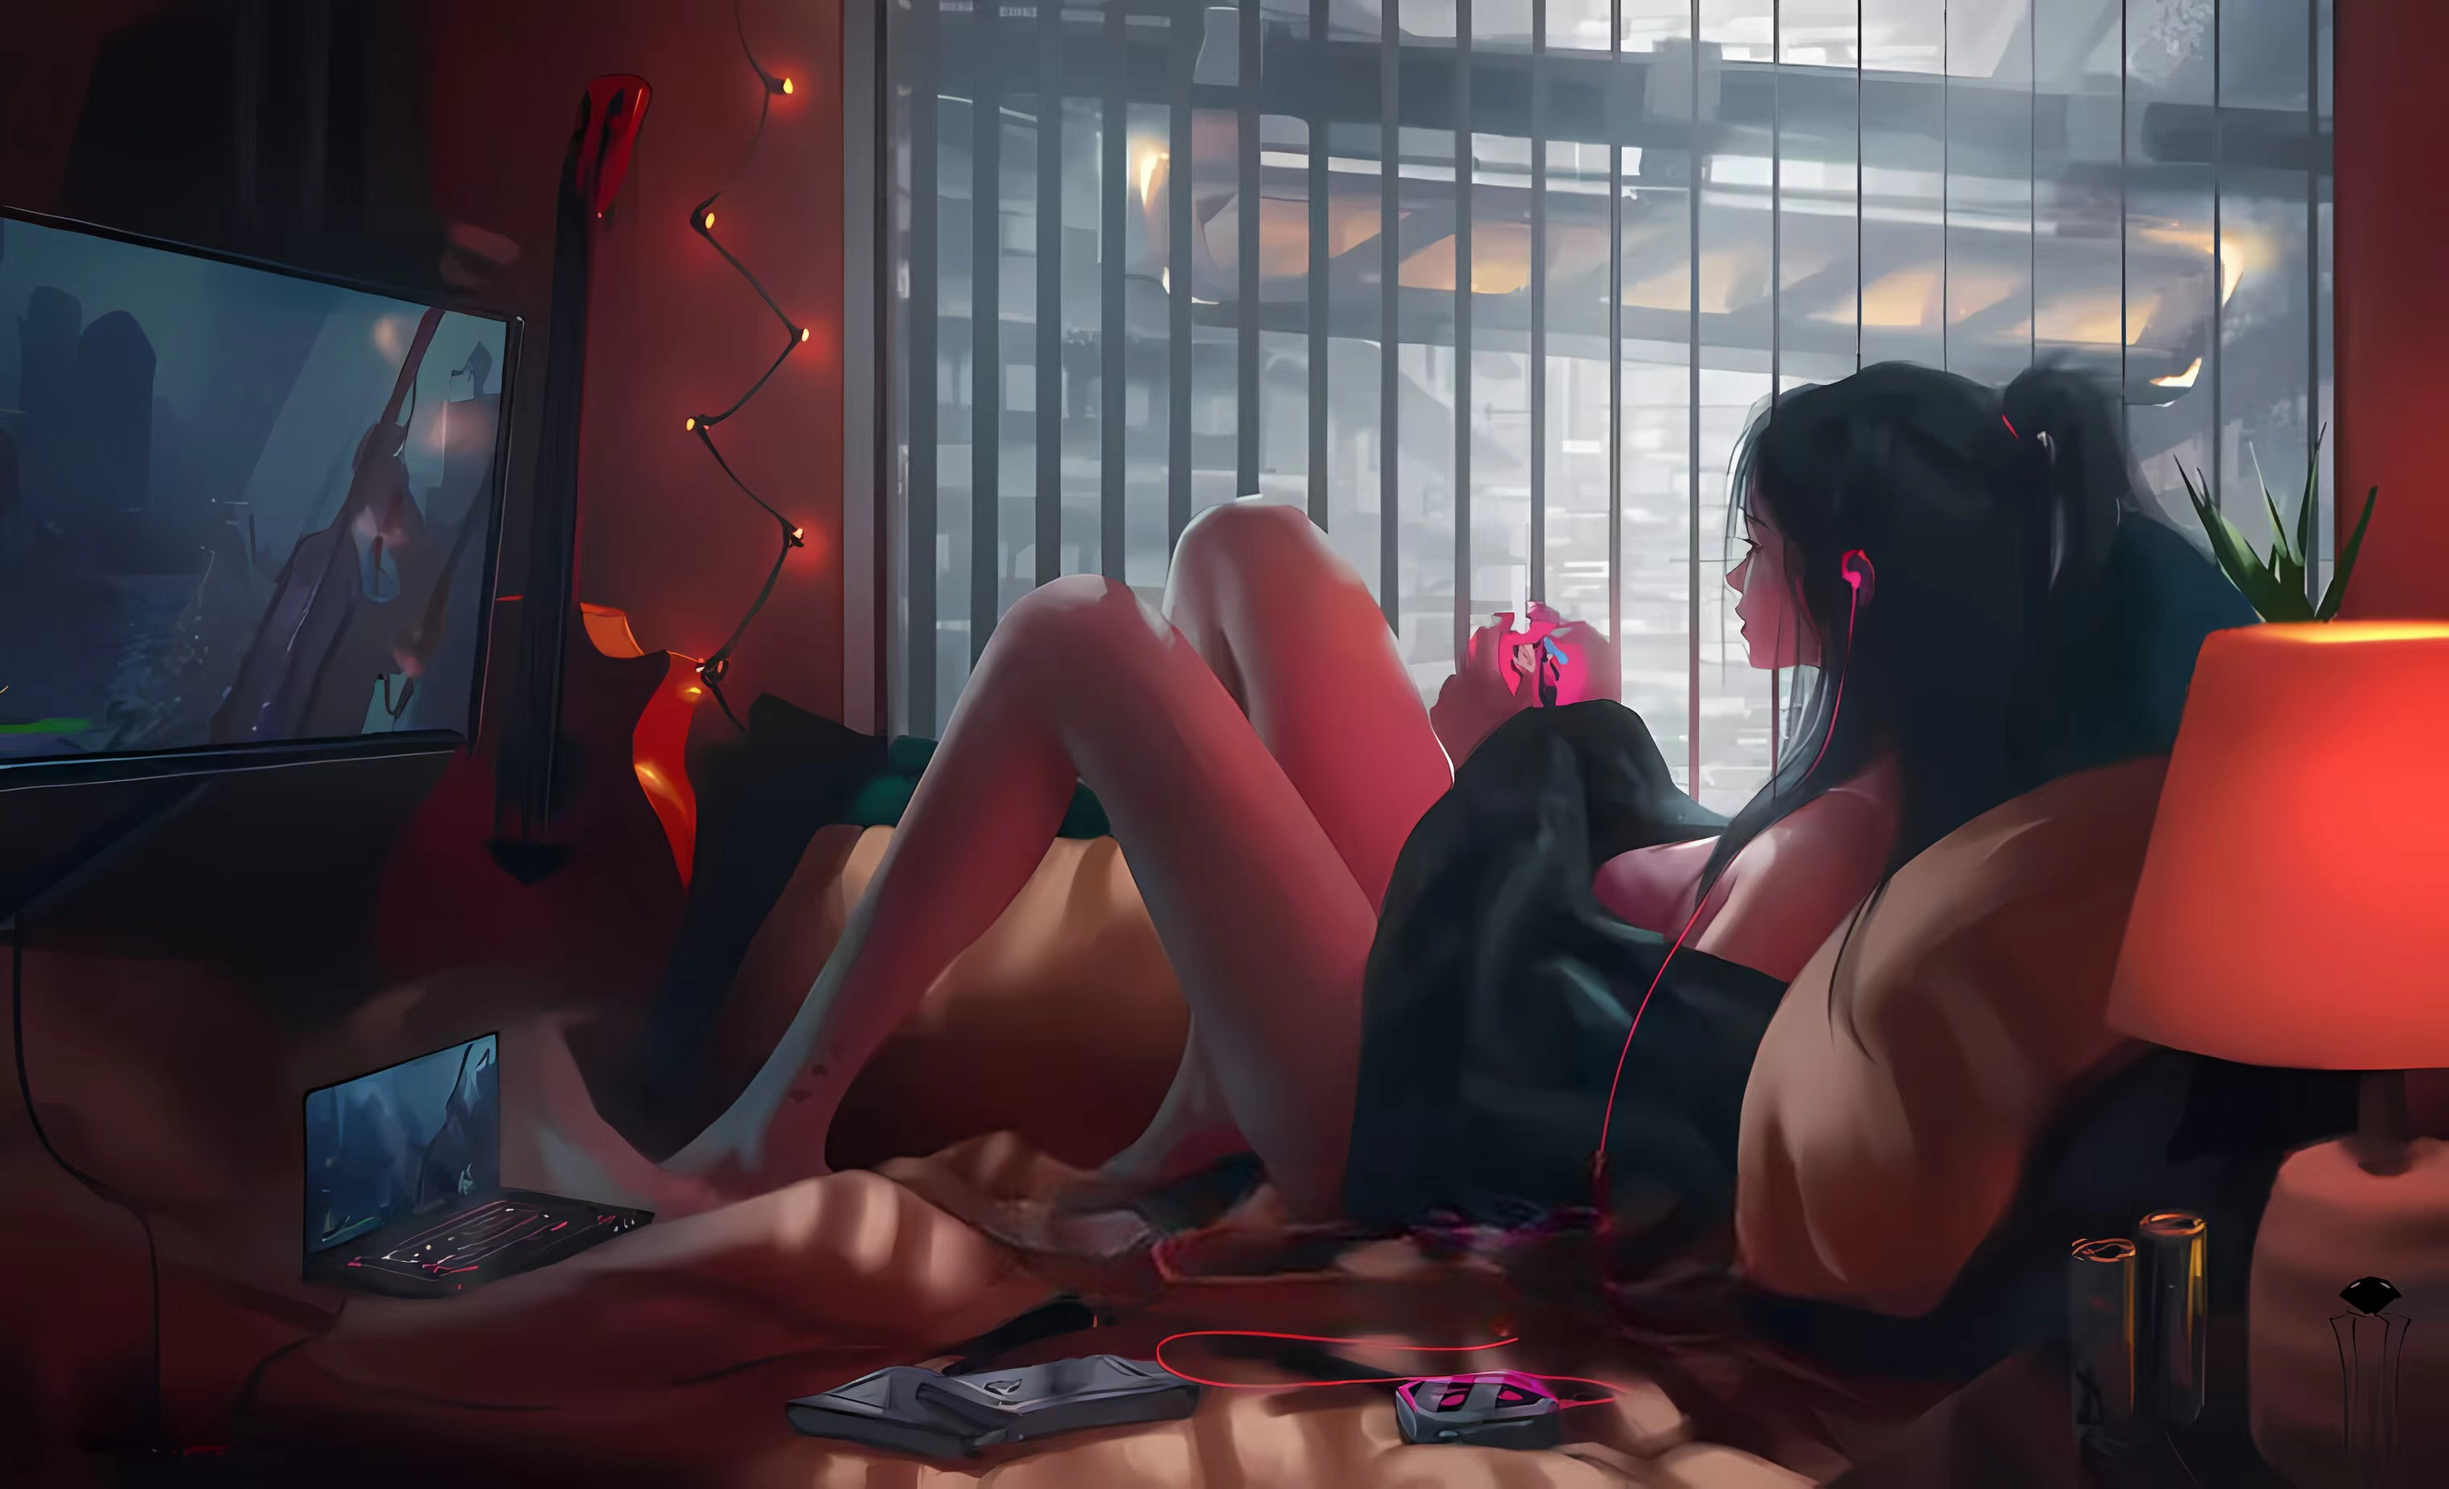
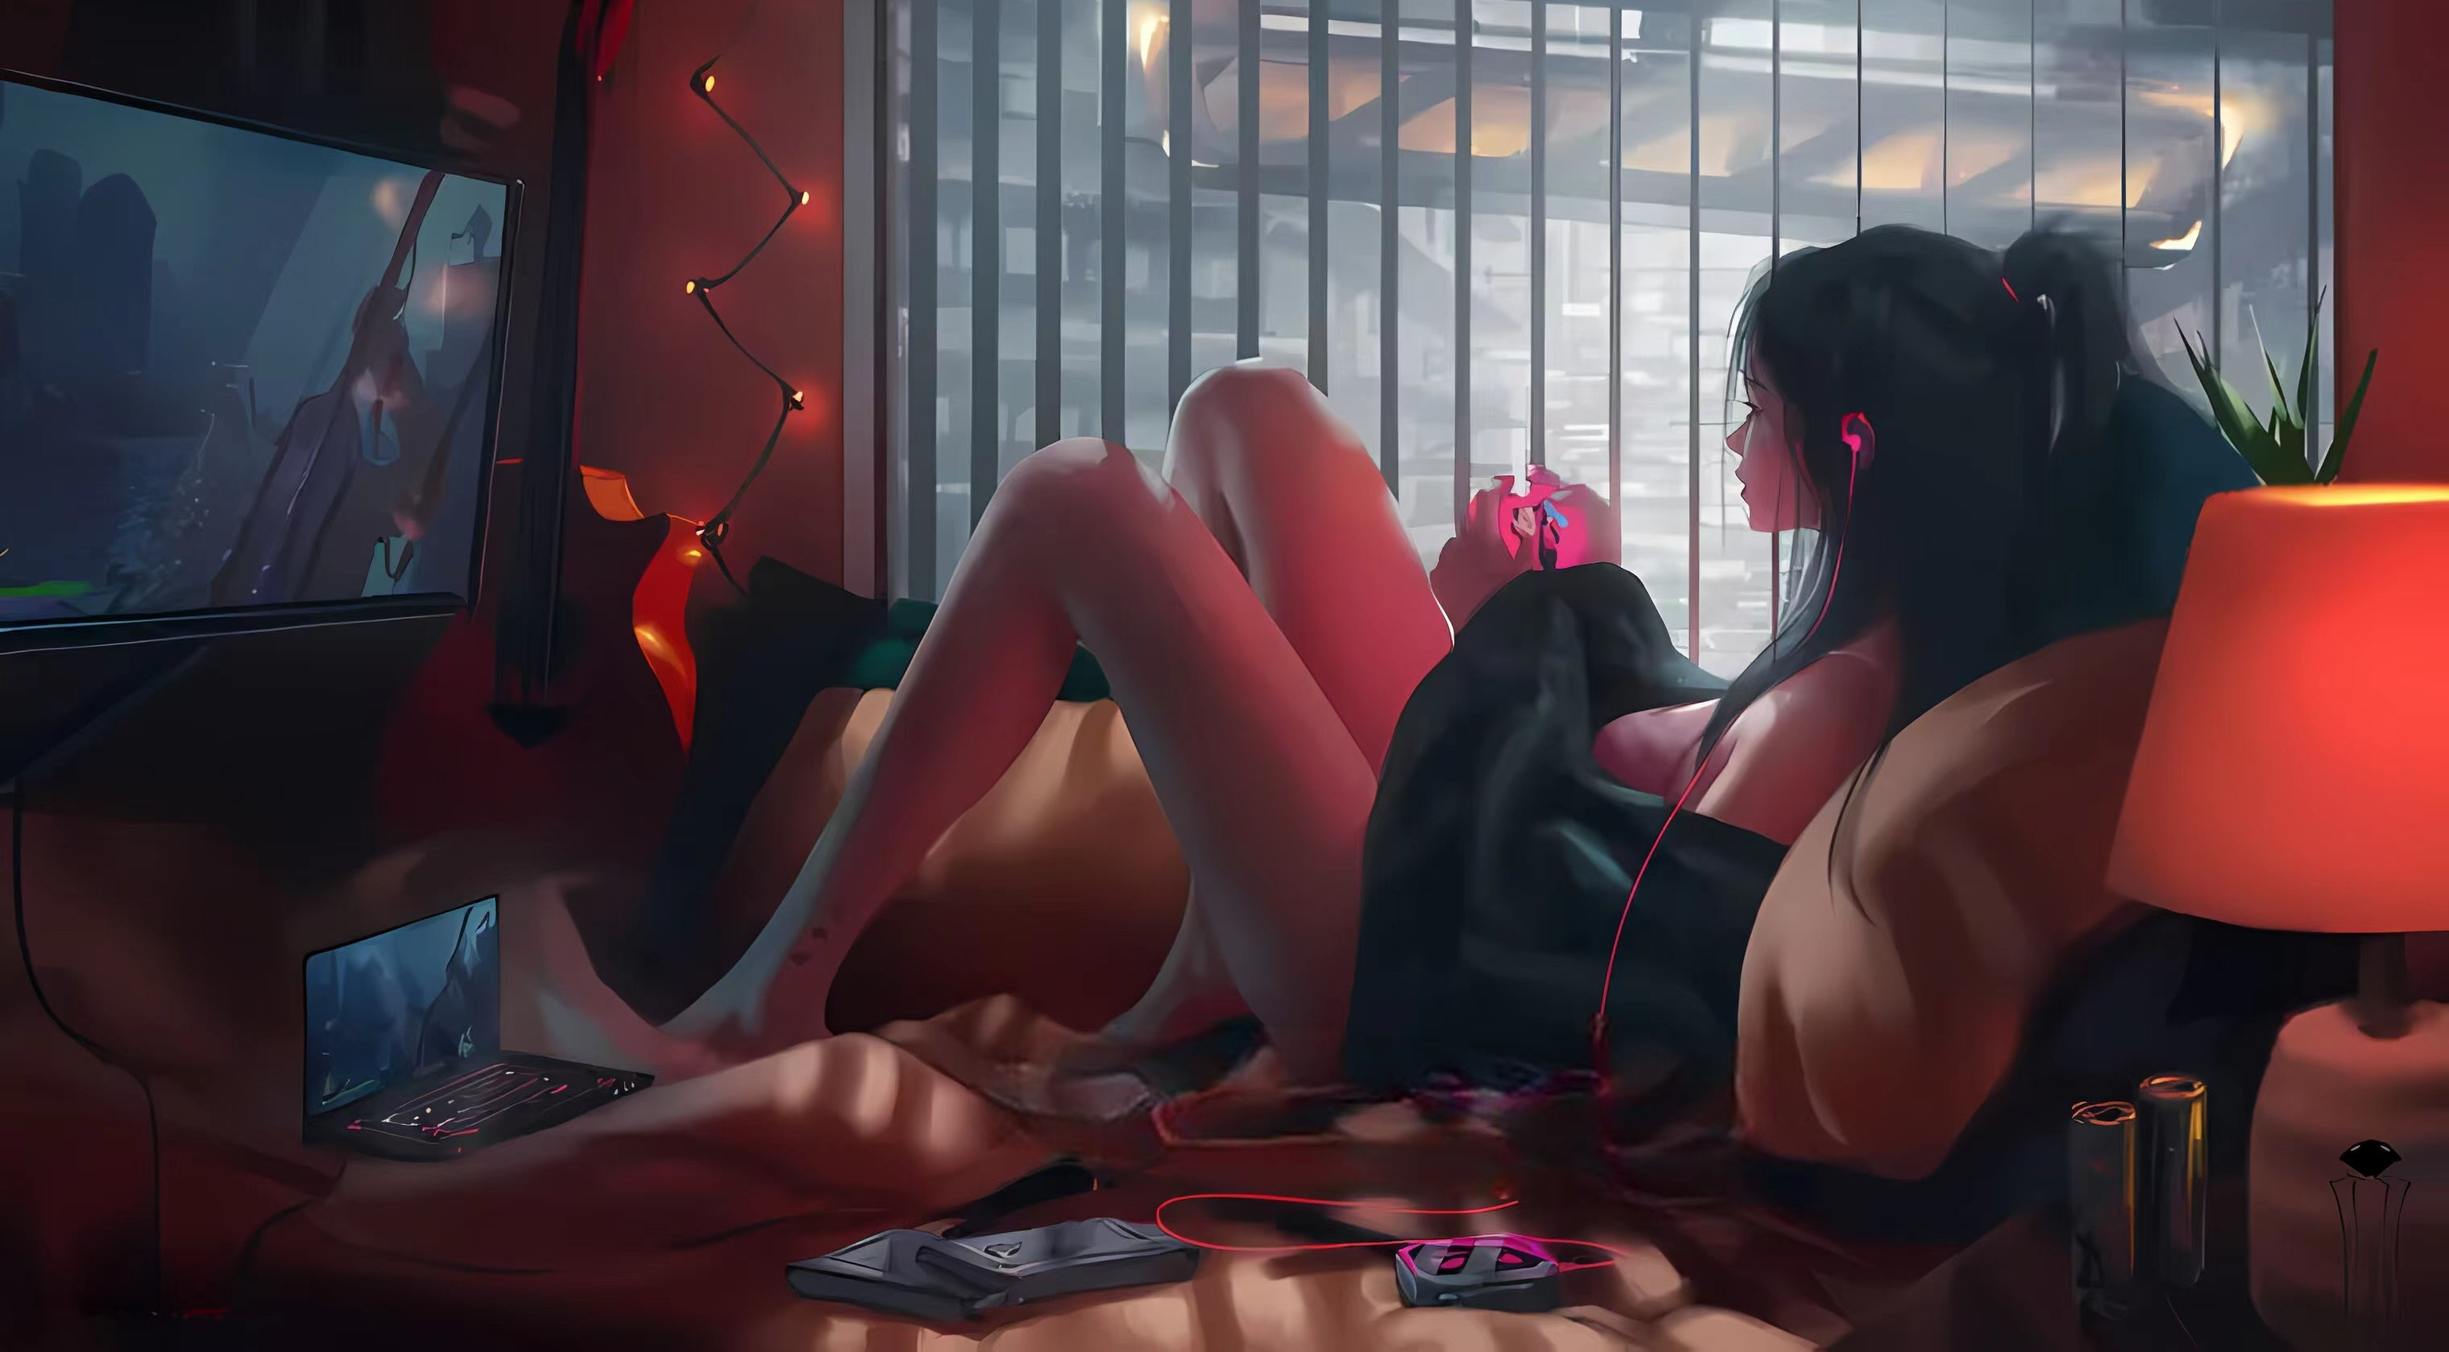
Site updated: 2023-04-30 21:19:31

diff --git a/index.html b/index.html
@@ -153,7 +153,7 @@
     <div
         id="home-background"
         ref="homeBackground"
-        data-images="/images/background.jpg"
+        data-images="https://s2.loli.net/2023/04/23/HSyloYu13cp2rTi.jpg"
     ></div>
     <div id="home-info" @click="homeClick">
         <span class="loop"></span>
